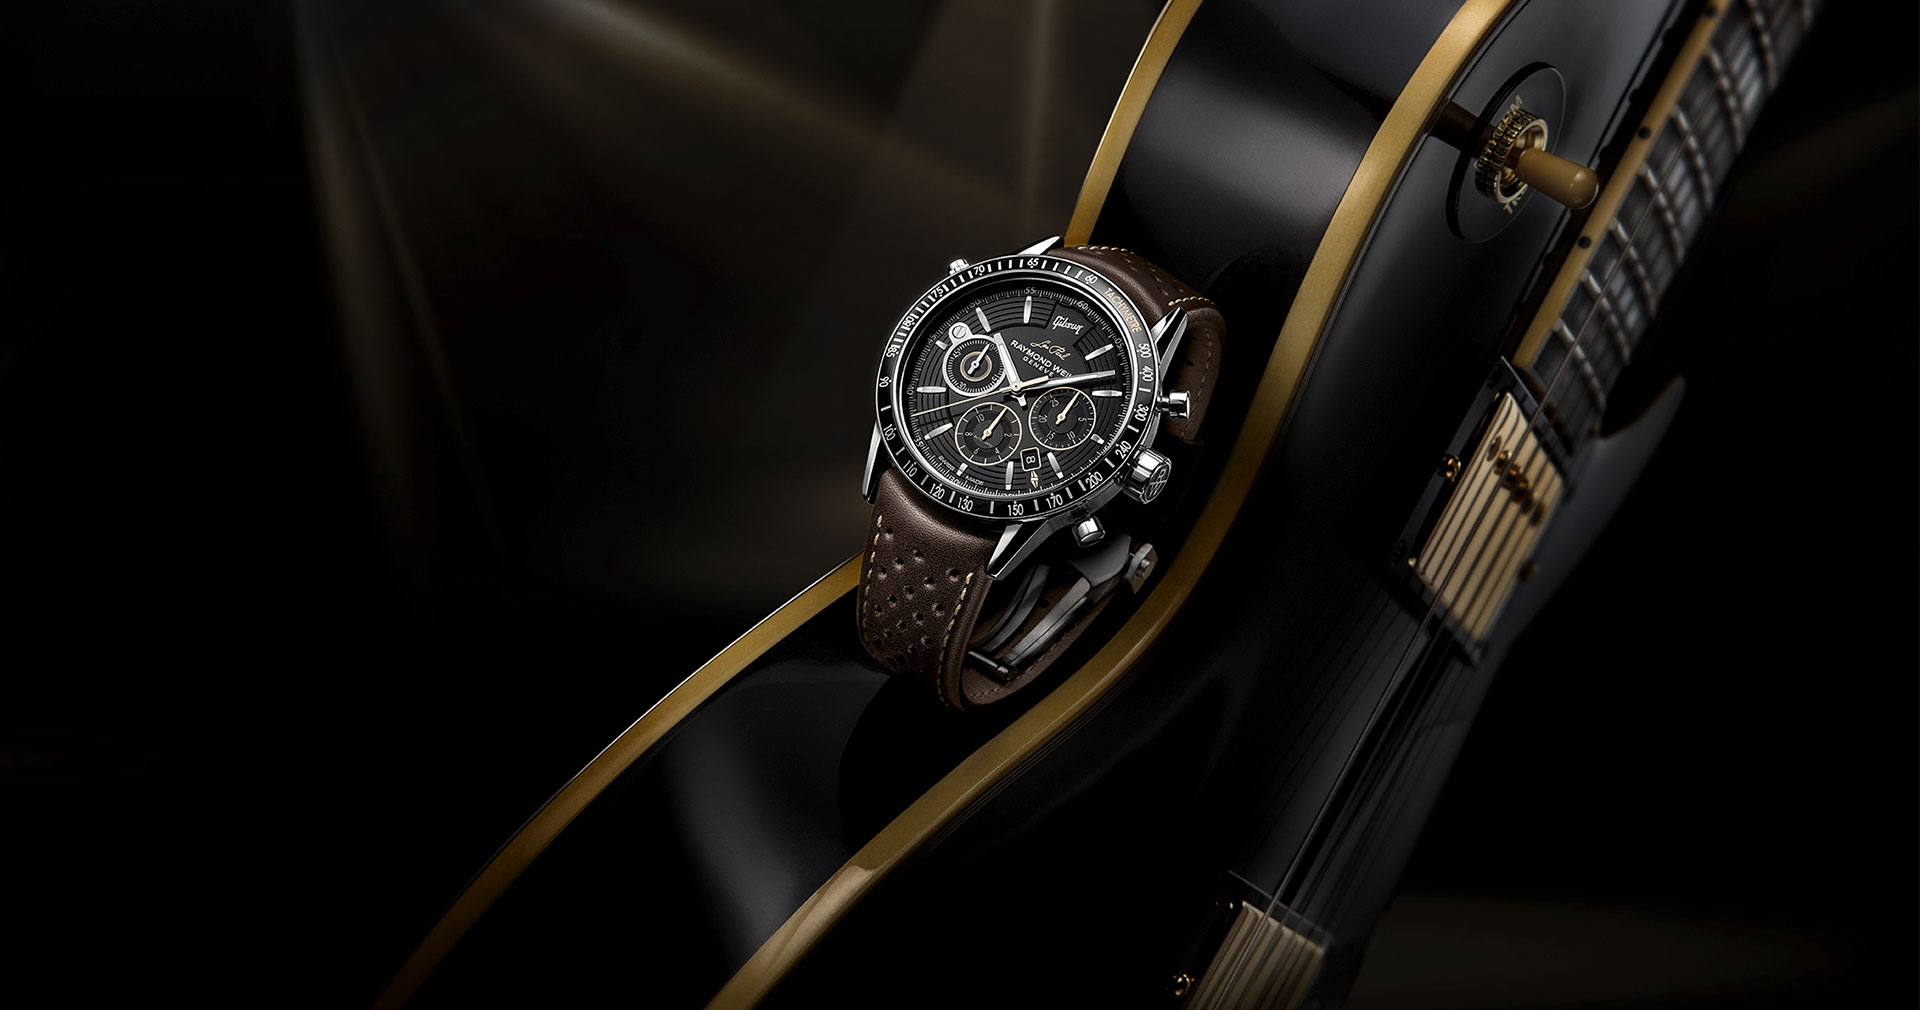
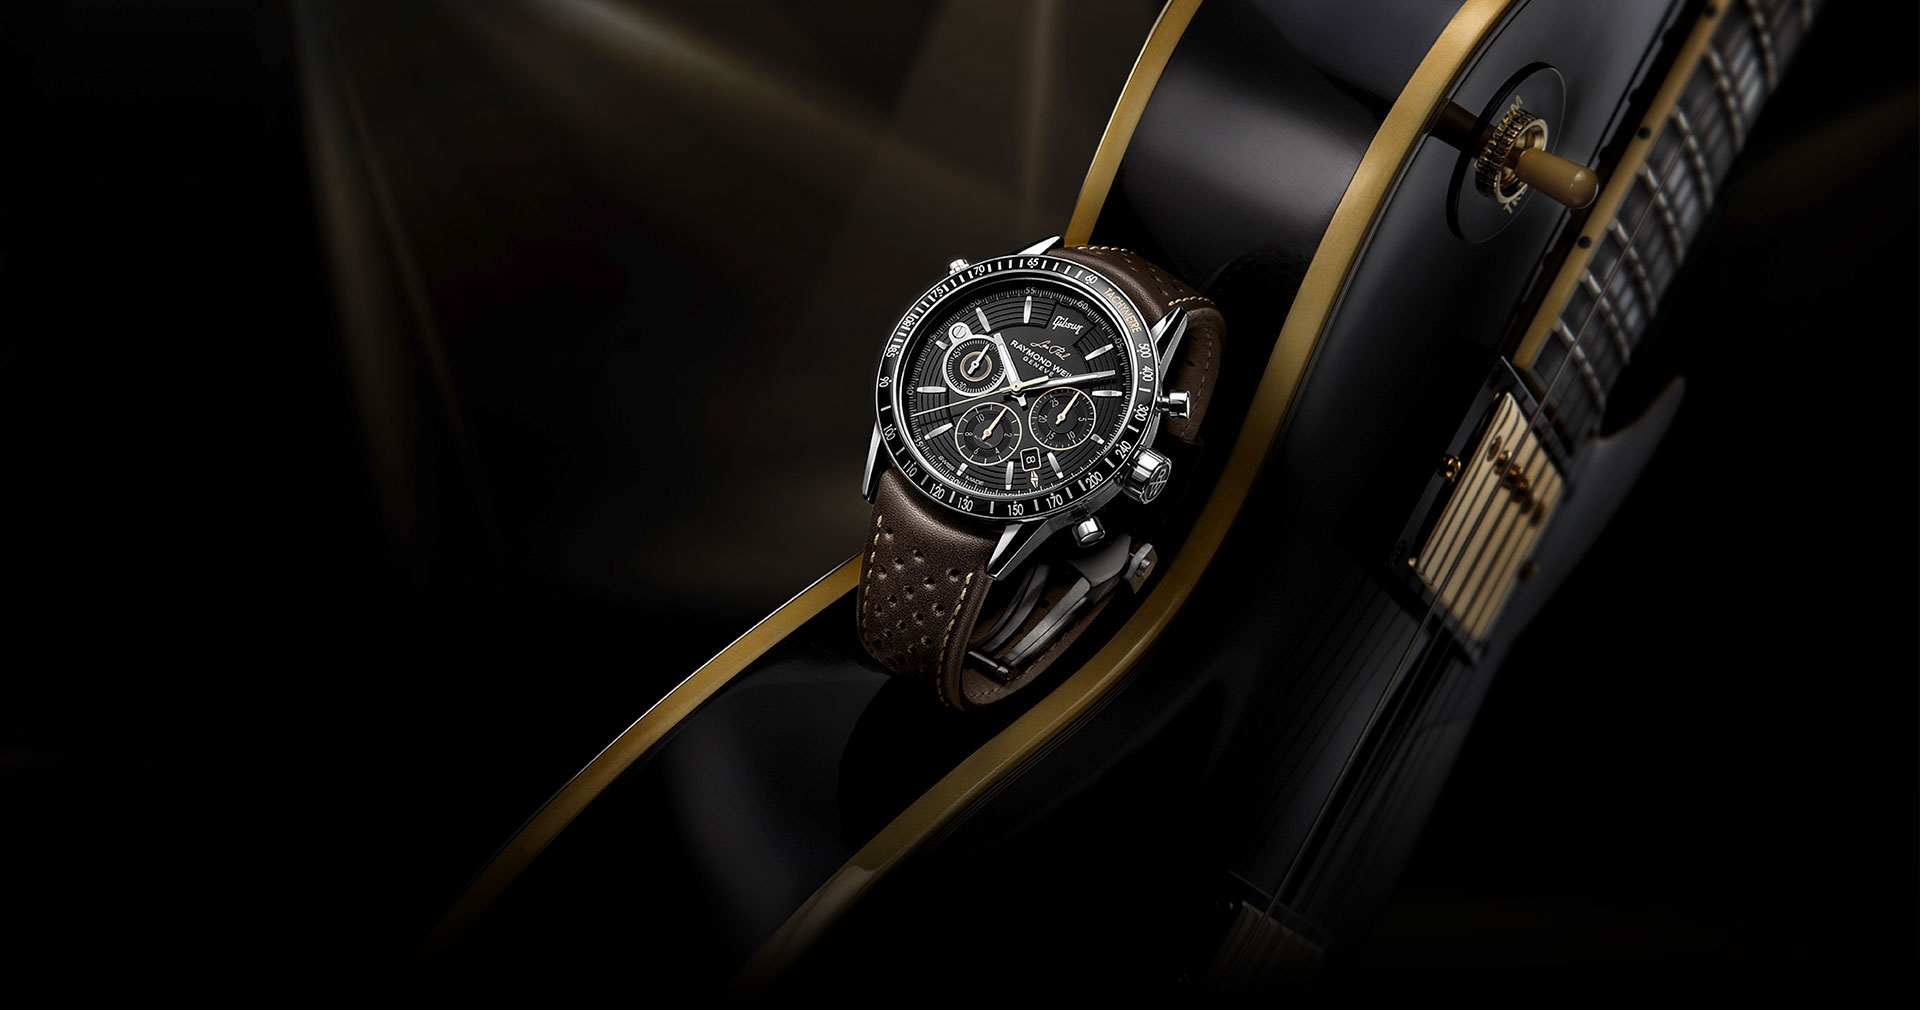
actualizaciones

Changed region(s): [[0.3438, 0.798, 0.5, 1.0], [0.5938, 0.8594, 0.7188, 1.0], [0.2812, 0.798, 0.3125, 0.8287]]

diff --git a/index.html b/index.html
@@ -70,7 +70,7 @@
                 <img src="img/rw_logo_black.png" alt="">
             </div>
             <div class="cell mt20">
-                <p class="rw-historia-c-texto">La música y el arte son para RAYMOND WEIL como el pensamiento es a la humanidad: una fuente inagotable de inspiración y creatividad. Con más de 40 años de experiencia, la Maison aporta habilidades y experiencia adquiridas durante siglos.</p>
+                <p class="rw-historia-c-texto">La música y el arte son para RAYMOND WEIL como el pensamiento es a la humanidad: una fuente inagotable de inspiración y creatividad. Con más de 40 años de experiencia, la Maison aporta la experiencia adquirida en Suiza durante siglos.</p>
             </div>
         </div>
         <div class="grid-x mt40">
@@ -195,7 +195,7 @@
                 </div>
                 <div class="medium-3 cell rw-texto-regalo">
                     <p>PARLANTE BLUETOOTH</p>
-                    <P>Súper compacto, de diseño dinámico y con la mejor calidad sonora.</P>
+                    <P>Súper compacto y de diseño dinámico.</P>
                     <p>Se conecta inalámbricamente a través de tecnología Bluetooth.</p>
                 </div>
             </div>

diff --git a/scss/_rw-estilos.scss b/scss/_rw-estilos.scss
@@ -173,9 +173,13 @@
     background-position: center;
     background-repeat: no-repeat;
     padding-top: 4rem;
-    padding-bottom: 4rem;
     color: white;
     h1 {
         font-weight: 700;
     }
+}
+
+.rw-black-gradient {
+    height: 10rem;
+    background: linear-gradient(rgba(0, 0, 0, 0), rgb(0, 0, 0)); 
 }

diff --git a/gracias.html b/gracias.html
@@ -50,6 +50,7 @@
                 </div>
             </div>
         </div>
+        <div class="grid-container fluid rw-black-gradient"></div>
     </div>
     <script src="https://ajax.googleapis.com/ajax/libs/jquery/3.2.1/jquery.min.js"></script>
     <script src="js/what-input.min.js"></script>
